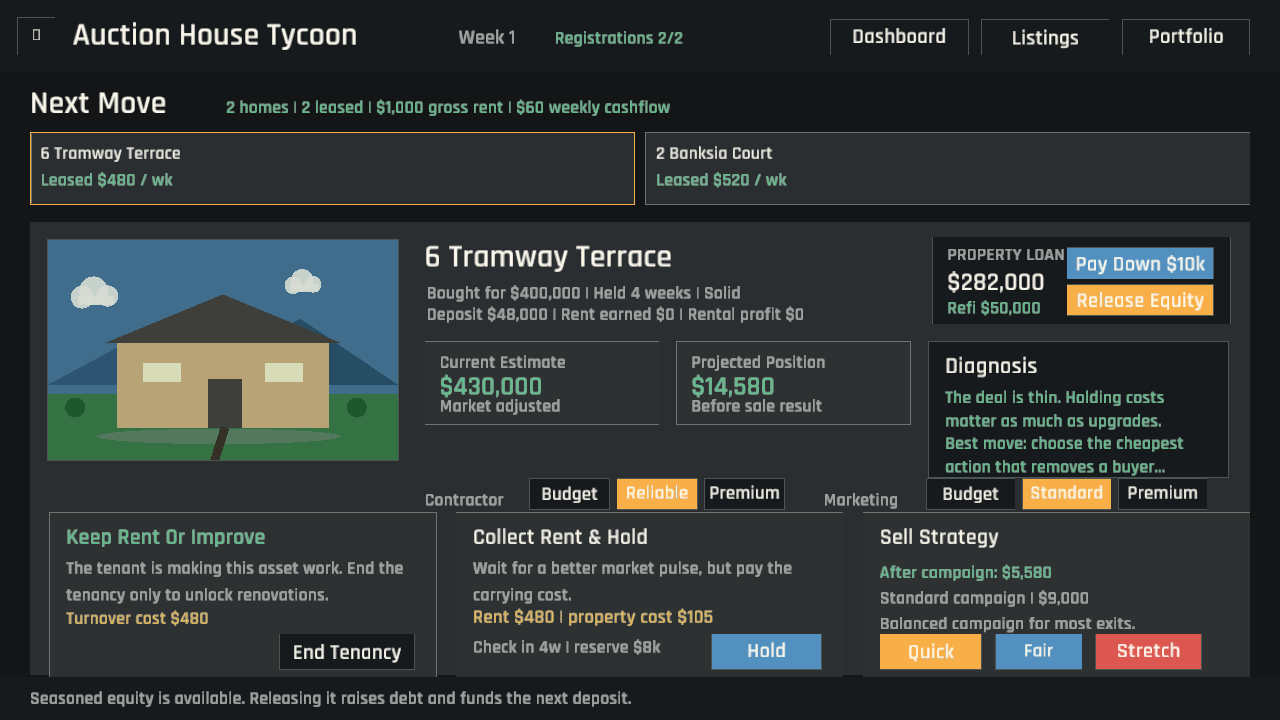
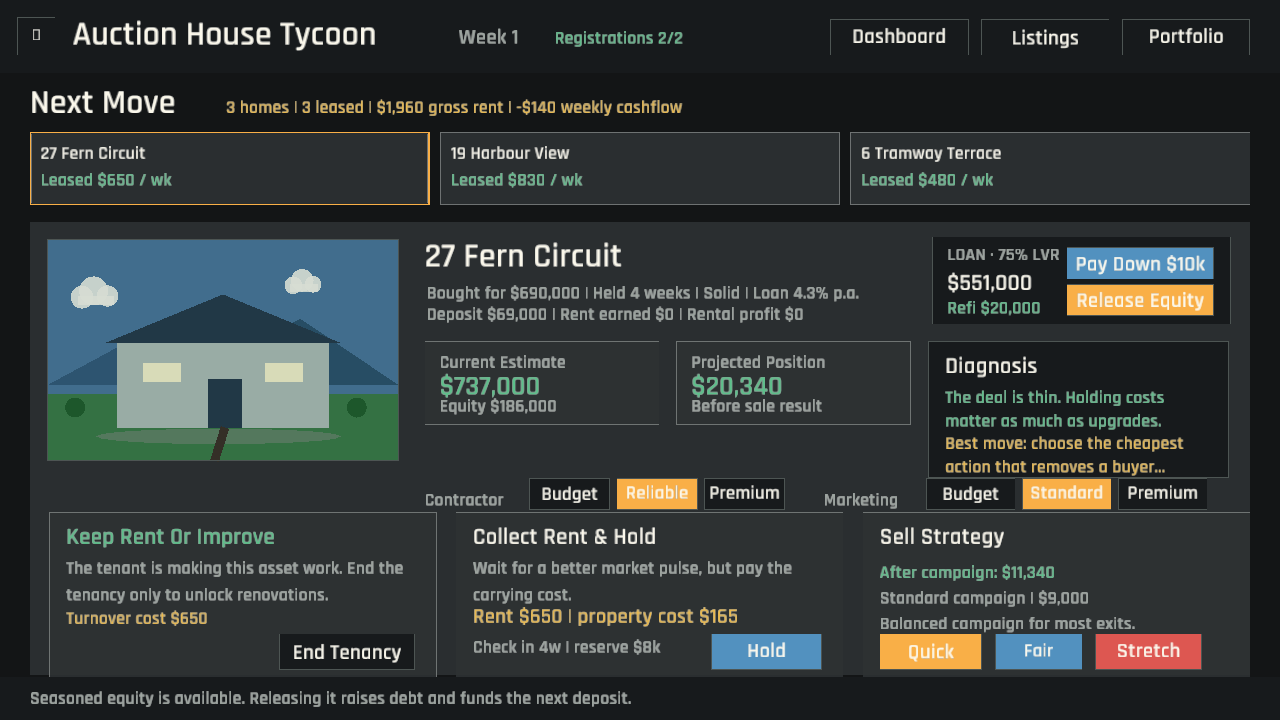
The folio now speaks the bank's language (portfolio equity, LVR, and annual loan rate)
Debt was visible, but its relationship to value and changing market conditions was not. Each holding now shows current equity, LVR, the annualised market rate, and refinance headroom together, making paydown, equity release, holding, and sale choices easier to compare. The weekly interest calculation exposes the same rate used by the UI and has regression coverage.

diff --git a/src/screens/portfolio.rs b/src/screens/portfolio.rs
@@ -7,7 +7,9 @@ use crate::screens::portfolio_widgets::{
     draw_problem_card, draw_rental_campaign, draw_sell_decision, draw_skip_renovation,
     draw_upgrade_decision, recommended_upgrade,
 };
-use crate::sim::campaign::{weekly_debt_interest, weekly_holding_cost};
+use crate::sim::campaign::{
+    annual_interest_rate_percent, weekly_debt_interest, weekly_holding_cost,
+};
 use crate::sim::finance::{borrowing_limit, refinance_capacity};
 use crate::sim::rental::{leasing_cost, portfolio_rental_snapshot, weekly_rent_for_owned};
 use crate::sim::valuation::current_value;
@@ -141,15 +143,17 @@ impl App {
             30,
             TEXT_BRIGHT,
         );
-        label(
+        label_fit(
             &format!(
-                "Bought for {} | Held {} weeks | {}",
+                "Bought for {} | Held {} weeks | {} | Loan {:.1}% p.a.",
                 format_money(owned.purchase_price),
                 owned.weeks_held,
-                owned.property.condition.label()
+                owned.property.condition.label(),
+                annual_interest_rate_percent(self.market())
             ),
             main.x + 372.0,
             main.y + 72.0,
+            main.w - 690.0,
             17,
             TEXT_DIM,
         );
@@ -170,7 +174,7 @@ impl App {
         draw_money_stat(
             "Current Estimate",
             &format_money(estimate),
-            "Market adjusted",
+            &format!("Equity {}", format_money(estimate - owned.debt)),
             Rect::new(main.x + 370.0, stat_y, 220.0, 78.0),
             if position >= 0 { POSITIVE } else { WARNING },
         );
@@ -192,6 +196,11 @@ impl App {
             &owned,
             self.player.cash,
             refinance_capacity(&self.player, owned.property.id, self.market()),
+            if estimate > 0 {
+                owned.debt as f32 / estimate as f32 * 100.0
+            } else {
+                0.0
+            },
         );
 
         let card_y = main.y + 272.0;

diff --git a/src/sim/campaign.rs b/src/sim/campaign.rs
@@ -91,8 +91,16 @@ pub fn weekly_debt_interest(debt: i64, market: &MarketEvent) -> i64 {
         return 0;
     }
 
-    let rate = (WEEKLY_DEBT_INTEREST_RATE - market.buyer_budget_modifier * 0.012).max(0.0005);
+    let rate = weekly_interest_rate(market);
     round_up_to_100(debt as f32 * rate)
+}
+
+pub fn annual_interest_rate_percent(market: &MarketEvent) -> f32 {
+    weekly_interest_rate(market) * 52.0 * 100.0
+}
+
+fn weekly_interest_rate(market: &MarketEvent) -> f32 {
+    (WEEKLY_DEBT_INTEREST_RATE - market.buyer_budget_modifier * 0.012).max(0.0005)
 }
 
 pub fn weekly_holding_cost(player: &Player) -> i64 {

diff --git a/src/sim/campaign/tests.rs b/src/sim/campaign/tests.rs
@@ -25,6 +25,16 @@ fn debt_interest_rounds_up_to_hundreds() {
 }
 
 #[test]
+fn annual_rate_explains_the_same_market_pressure_as_weekly_interest() {
+    let steady = market(0.0);
+    let tighter = market(-0.04);
+
+    assert!((annual_interest_rate_percent(&steady) - 4.94).abs() < 0.01);
+    assert!(annual_interest_rate_percent(&tighter) > annual_interest_rate_percent(&steady));
+    assert!(weekly_debt_interest(400_000, &tighter) > weekly_debt_interest(400_000, &steady));
+}
+
+#[test]
 fn campaign_ends_after_goal_or_deadline() {
     let steady = market(0.0);
     let mut player = Player::new();

diff --git a/src/screens/portfolio_finance_widgets.rs b/src/screens/portfolio_finance_widgets.rs
@@ -13,9 +13,17 @@ pub(super) fn draw_loan_control(
     owned: &OwnedProperty,
     cash: i64,
     refinance_capacity: i64,
+    lvr_percent: f32,
 ) -> Option<LoanAction> {
     dark_panel(rect);
-    label("PROPERTY LOAN", rect.x + 14.0, rect.y + 22.0, 13, TEXT_DIM);
+    label_fit(
+        &format!("LOAN · {lvr_percent:.0}% LVR"),
+        rect.x + 14.0,
+        rect.y + 22.0,
+        rect.w - 174.0,
+        13,
+        TEXT_DIM,
+    );
     label(
         &format_money(owned.debt),
         rect.x + 14.0,

diff --git a/GAME_DESIGN.md b/GAME_DESIGN.md
@@ -45,6 +45,7 @@ The three requirements prevent a single degenerate strategy. Cheap but poor asse
 - Rent supports cashflow and borrowing capacity, but debt, ownership costs, and scheduled maintenance remain visible.
 - Spare cash can reduce a selected property's principal, trading liquidity for lower debt and more bank headroom.
 - A clean, leased home held for four weeks can release equity up to 80% LVR and the bank limit; the cash funds growth while debt and interest rise.
+- Each property reports its current equity, loan-to-value ratio, and annual interest rate so refinance capacity is legible rather than magical.
 - A sale outcome separates the hammer price from fees, loan repayment, settlement cash released, and true deal profit.
 - Every advanced week closes a visible statement for rent, management, interest, property costs, net cashflow, and debt-funded shortfall.
 - Maintenance checks occur on a disclosed schedule, reduce collected rent until repaired, and never arrive as uncontrolled random punishment.

diff --git a/README.md b/README.md
@@ -27,6 +27,7 @@ Winning an auction is not automatically good. The real challenge is knowing what
 - Read a weekly portfolio statement instead of guessing where rent and cash went.
 - Renovate, fund a one-week rental campaign, place or end tenancies, collect rent, handle scheduled maintenance, hold, or sell purchased properties.
 - Track every property, cash, debt, rent, weekly cashflow, fees, repairs, and net worth.
+- Read each home's equity, loan-to-value ratio, and market-adjusted annual loan rate before deciding whether to hold, pay down, refinance, or sell.
 
 ## Goal
 
